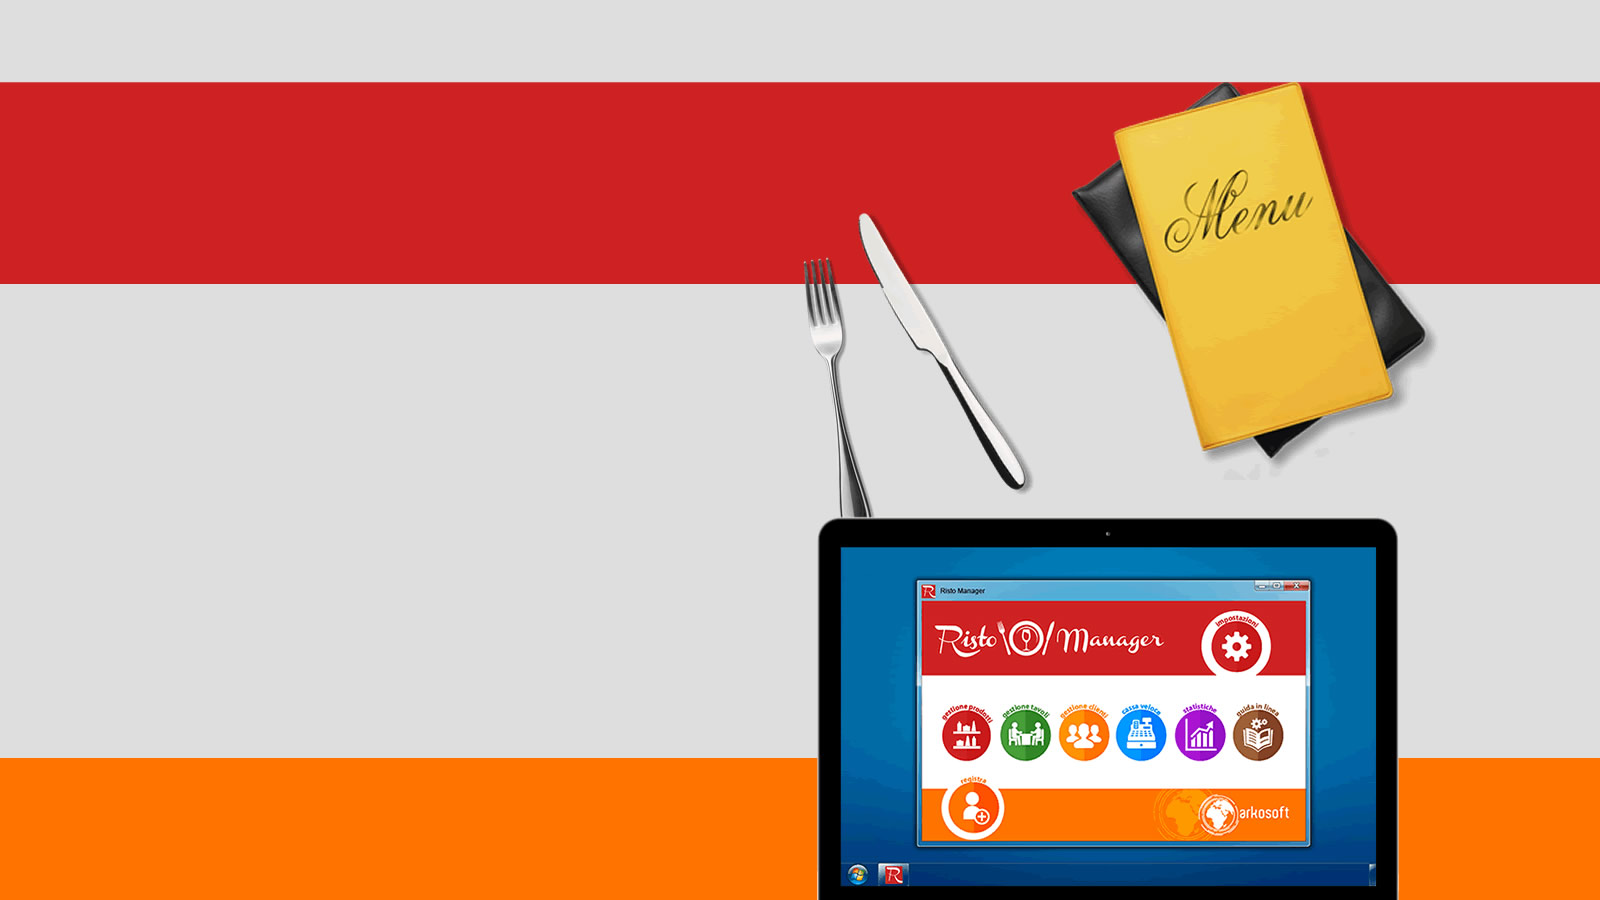
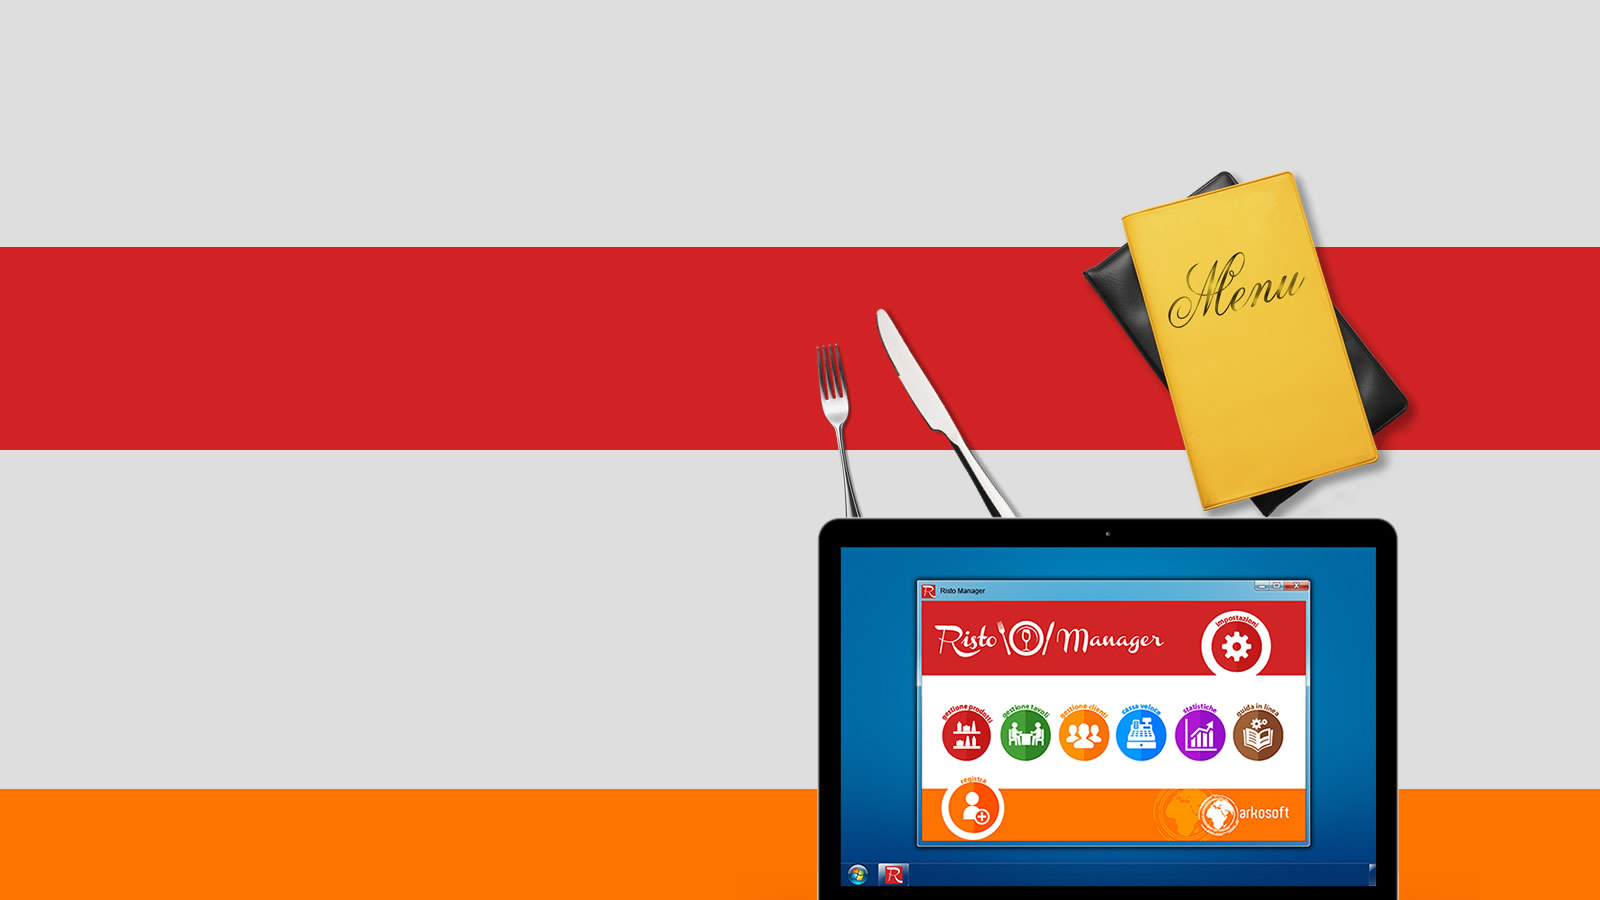
cancelalzioni immagini e cambio risoluzione
immagini in piu cancellate
modifiche per la risoluzione 1280x800

diff --git a/css/ie.css b/css/ie.css
@@ -7,89 +7,101 @@
 }
 /*** BOX DESCRIZIONE PRODOTTO 1 ***/
 .boxprodotto1{
-background-image:url("../immagini/ie8/softshop.jpg")!important;
-background-position:left bottom!important;
+background-position:center bottom!important;
 }
 
 /*** BOX DESCRIZIONE PRODOTTO 2 ***/
 .boxprodotto2{
 background-image:url("../immagini/ie8/ristomanager.jpg")!important;
-background-position:left bottom!important;
+background-position:center bottom!important;
 }
 .contenutoprodotto2{
-top: 100px!important;
+top: 130px!important;
 }
 .boxprodotto2 .bottonegiu{
-bottom: 15%!important;
+bottom: 23%!important;
 }
 
 /*** BOX DESCRIZIONE PRODOTTO 3 ***/
 .boxprodotto3{
-background-image:url("../immagini/ie8/gestionemessaggi.jpg")!important;
-background-position:left bottom!important;
+background-position:center bottom!important;
 }
 .contenutoprodotto3{
 top: 100px!important;
 }
+.boxprodotto3 .bottonegiu{
+bottom: 23%!important;
+}
 
 /*** BOX DESCRIZIONE PRODOTTO 4 ***/
 .boxprodotto4{
-background-image:url("../immagini/ie8/sadmin.jpg")!important;
-background-position:left bottom!important;
+background-position:center bottom!important;
 }
 .contenutoprodotto4{
 top: 100px!important;
 }
+.boxprodotto4 .bottonegiu{
+bottom: 23%!important;
+}
 
 /*** BOX DESCRIZIONE PRODOTTO 5 ***/
 .boxprodotto5{
-background-image:url("../immagini/ie8/trovapassword.jpg")!important;
-background-position:left bottom!important;
+background-position:center bottom!important;
 }
 .contenutoprodotto5{
 top: 100px!important;
 }
+.boxprodotto5 .bottonegiu{
+bottom: 23%!important;
+}
 
 /*** BOX DESCRIZIONE PRODOTTO 6 ***/
 .boxprodotto6{
-background-image:url("../immagini/ie8/roulette.jpg")!important;
-background-position:left bottom!important;
+background-position:center bottom!important;
 }
 .contenutoprodotto6{
 top: 100px!important;
 }
+.boxprodotto6 .bottonegiu{
+bottom: 23%!important;
+}
 
 /*** BOX DESCRIZIONE PRODOTTO 7 ***/
 .boxprodotto7{
-background-image:url("../immagini/ie8/spaccio.jpg")!important;
-background-position:left bottom!important;
+background-position:center bottom!important;
 }
 .contenutoprodotto7{
 top: 100px!important;
 }
+.boxprodotto7 .bottonegiu{
+bottom: 23%!important;
+}
 
 /*** BOX DESCRIZIONE PRODOTTO 8 ***/
 .boxprodotto8{
-background-image:url("../immagini/ie8/security.jpg")!important;
-background-position:left bottom!important;
+background-position:center bottom!important;
 }
 .contenutoprodotto8{
 top: 100px!important;
 }
+.boxprodotto8 .bottonegiu{
+bottom: 23%!important;
+}
 
 /*** BOX DESCRIZIONE PRODOTTO 9 ***/
 .boxprodotto9{
-background-image:url("../immagini/ie8/battery.jpg")!important;
-background-position:left bottom!important;
+background-position:center bottom!important;
 }
 .contenutoprodotto9{
 top: 100px!important;
 }
+.boxprodotto9 .bottonegiu{
+bottom: 23%!important;
+}
 
 /*** BOX DESCRIZIONE CONTATTI ***/
 .boxprodotto-contatti{
-background-image:url("../immagini/ie8/contatti.jpg")!important;
-background-position:left bottom!important;
+background-position:center bottom!important;
 }
 .contenutoprodotto-contatti{
 top: 120px!important;

diff --git a/css/home.css b/css/home.css
@@ -74,7 +74,7 @@ overflow:hidden;
 }
 .contenutoprodotto{
 width:60%;
-height:100%;
+height:auto;
 margin-left:20px;
 top: 5px;
 position:relative;
@@ -106,7 +106,7 @@ margin-left:-130px;
 }
 
 .boxprodotto1 .bottonegiu{
-bottom: 20%;
+bottom: 10%;
 color: #000000;
 font-family: "Roboto Slab",serif;
 font-size: 12px;
@@ -135,7 +135,7 @@ overflow:hidden;
 
 .contenutoprodotto2{
 width:60%;
-height:100%;
+height:auto;
 margin-left:20px;
 top: 50px;
 position:relative;
@@ -145,7 +145,7 @@ text-align:left;
 .textprodotto2{
 width:70%;
 height:auto;
-margin:20px 0px;
+margin:35px 0px;
 }
 
 .textprodotto2 p{
@@ -196,7 +196,7 @@ overflow:hidden;
 
 .contenutoprodotto3{
 width:60%;
-height:100%;
+height:auto;
 margin-left:20px;
 top: 65px;
 position:relative;
@@ -257,7 +257,7 @@ overflow:hidden;
 
 .contenutoprodotto4{
 width:60%;
-height:100%;
+height:auto;
 margin-left:20px;
 top: 65px;
 position:relative;
@@ -322,7 +322,7 @@ overflow:hidden;
 
 .contenutoprodotto5{
 width:60%;
-height:100%;
+height:auto;
 margin-left:20px;
 top: 65px;
 position:relative;
@@ -383,7 +383,7 @@ overflow:hidden;
 
 .contenutoprodotto6{
 width:60%;
-height:100%;
+height:auto;
 margin-left:20px;
 top: 65px;
 position:relative;
@@ -448,7 +448,7 @@ overflow:hidden;
 
 .contenutoprodotto7{
 width:60%;
-height:100%;
+height:auto;
 margin-left:20px;
 top: 65px;
 position:relative;
@@ -509,7 +509,7 @@ overflow:hidden;
 
 .contenutoprodotto8{
 width:60%;
-height:100%;
+height:auto;
 margin-left:20px;
 top: 65px;
 position:relative;
@@ -566,7 +566,7 @@ overflow:hidden;
 
 .contenutoprodotto9{
 width:60%;
-height:100%;
+height:auto;
 margin-left:20px;
 top: 65px;
 position:relative;

diff --git a/css/responsive.css b/css/responsive.css
@@ -1,21 +1,30 @@
+@media only screen and (min-width: 1270px) {
+	.boxprodotto2 .bottonegiu{
+		bottom: 1%!important;
+	}
+/*** MODULO DI COMPILAZIONE ***/
+	.iframemaps{
+		right: 213px;
+	}
+}
 @media only screen and (min-width: 795px) {
 	.contenutoprodotto2{
 		top: 120px;
 	}
 	.boxprodotto2 .bottonegiu{
-		bottom: 20%;
+		bottom: 7%;
 	}
 	.contenutoprodotto3{
 		top: 110px;
 	}
 	.boxprodotto3 .bottonegiu{
-		bottom: 18%;
+		bottom: 10%;
 	}
 	.contenutoprodotto4{
 		top: 110px;
 	}
 	.boxprodotto4 .bottonegiu{
-		bottom: 18%;
+		bottom: 10%;
 	}
 	.oggsadmin{
 		margin-left:-80px;
@@ -24,7 +33,7 @@
 		top: 110px;
 	}
 	.boxprodotto5 .bottonegiu{
-		bottom: 18%;
+		bottom: 10%;
 	}
 	.oggpassword{
 		margin-left:-80px;
@@ -33,19 +42,19 @@
 		top: 110px;
 	}
 	.boxprodotto6 .bottonegiu{
-		bottom: 18%;
+		bottom: 10%;
 	}
 	.contenutoprodotto7{
 		top: 110px;
 	}
 	.boxprodotto7 .bottonegiu{
-		bottom: 18%;
+		bottom: 15%;
 	}
 	.contenutoprodotto8{
 		top: 110px;
 	}
 	.boxprodotto8 .bottonegiu{
-		bottom: 18%;
+		bottom: 10%;
 	}
 	.contenutoprodotto9{
 		top: 110px;
@@ -54,7 +63,7 @@
 		display:block;
 	}
 	.boxprodotto9 .bottonegiu{
-		bottom: 18%;
+		bottom: 10%;
 	}
 }
 @media only screen and (max-width: 795px) {
